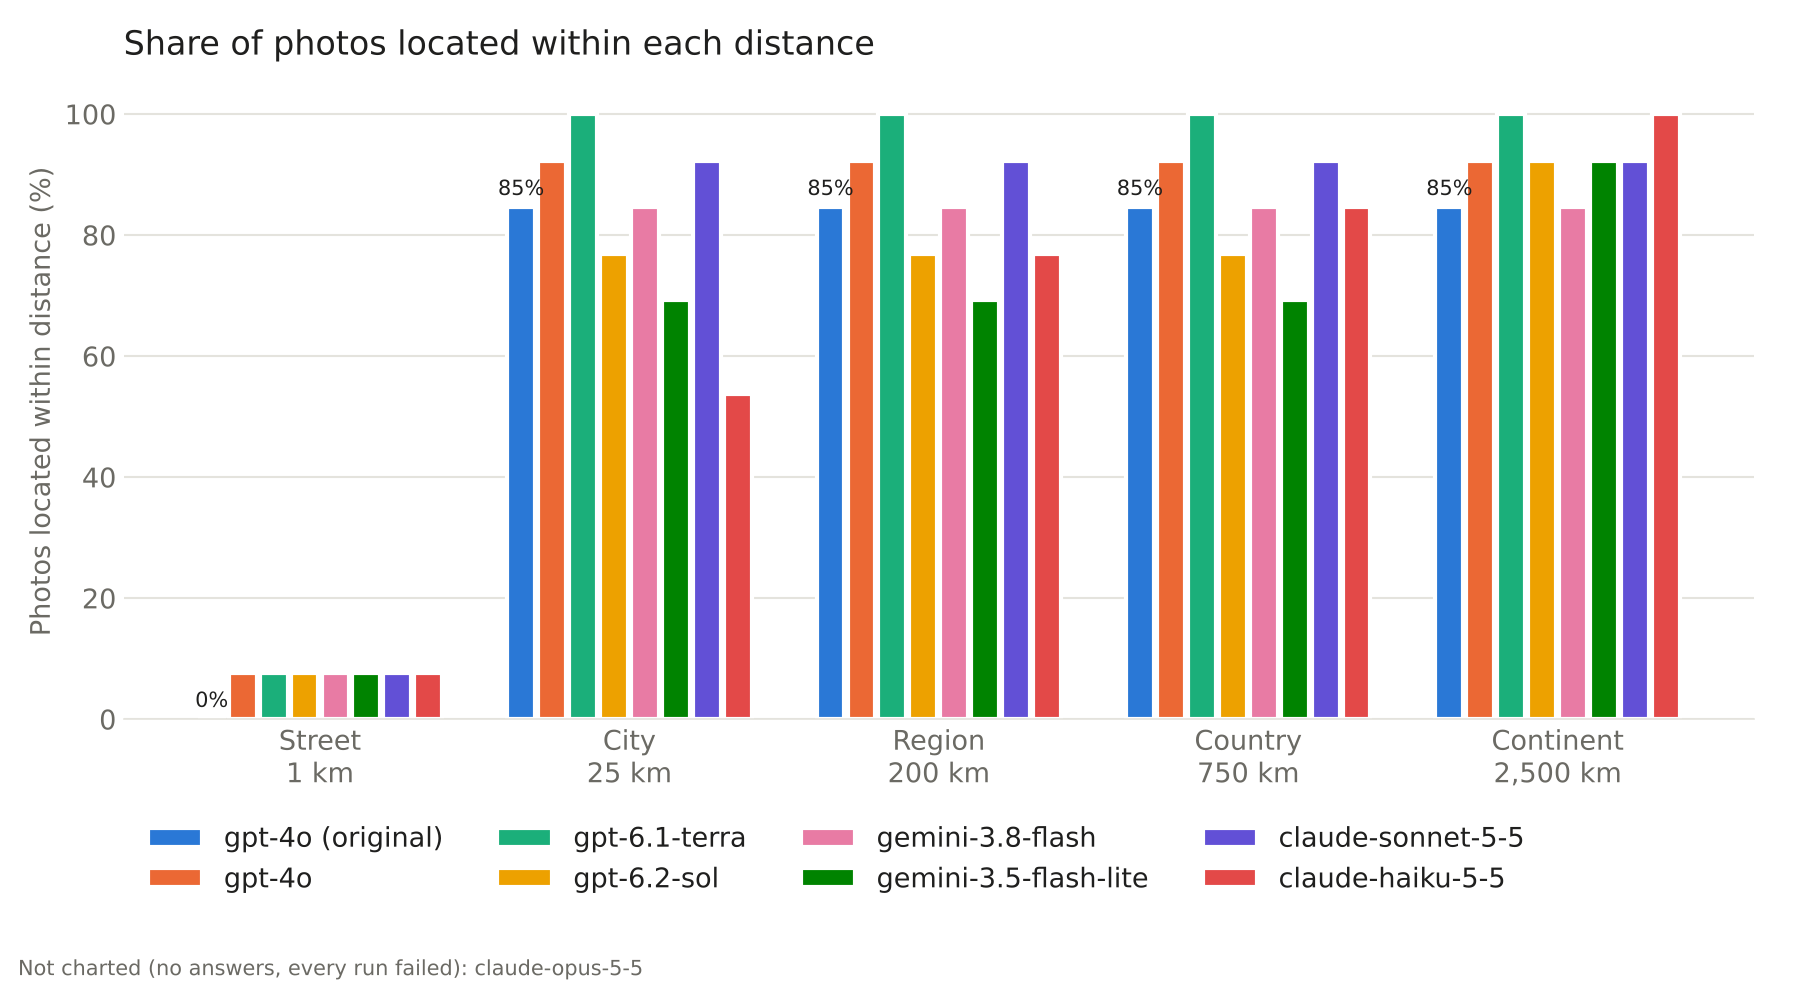
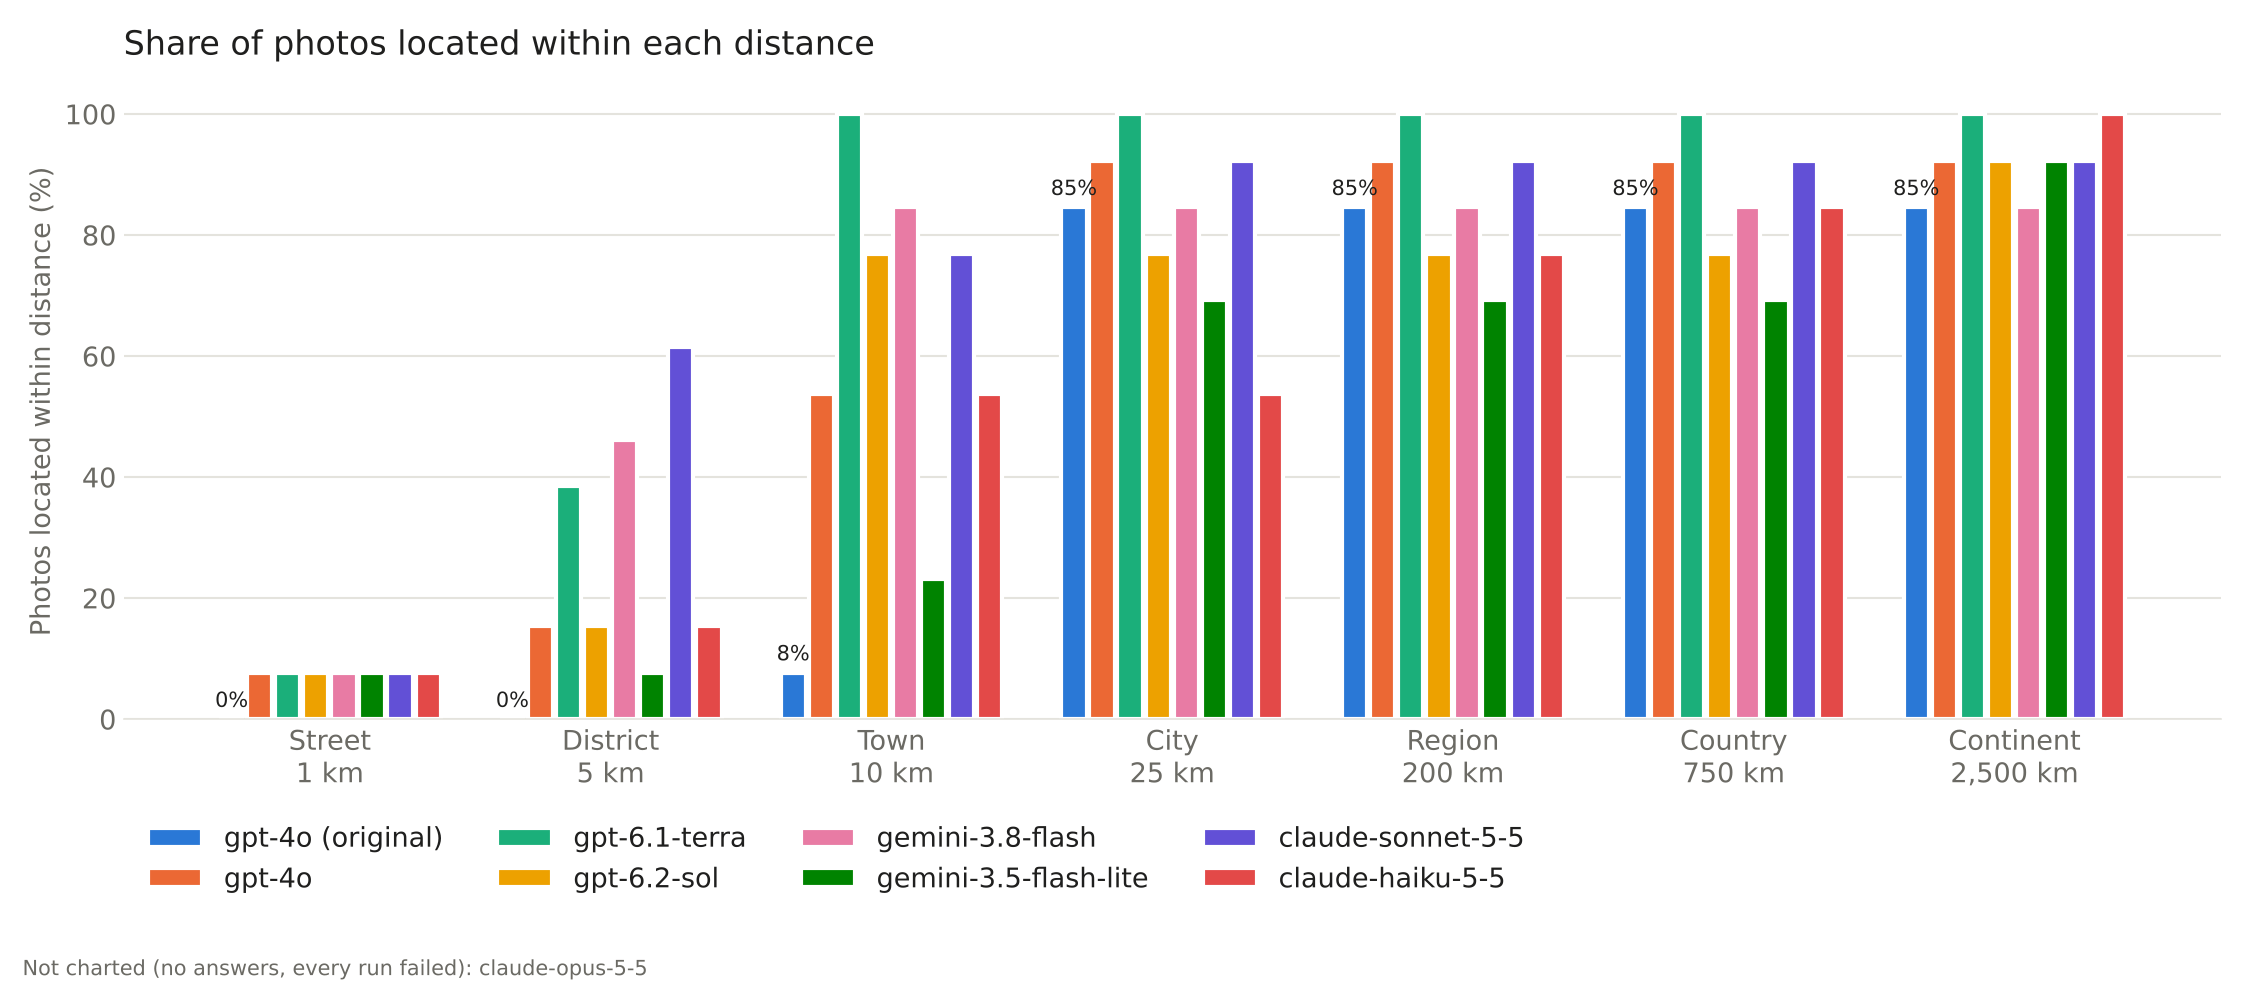
Benchmark: add 5 km and 10 km accuracy bands
With every photo in one suburb, the 25 km band cannot tell the right town
from the nearest big city (Bellevue vs Seattle is 10-15 km), so a model
that always answers "Seattle" scores as well as one that finds the spot.
Add District (5 km) and Town (10 km) to the summary, chart and printed
table, and regenerate benchmark-results/ and results-claude/.

Claude-Session: https://claude.ai/code/session_01QYVsSHisQA6ypfrNR5WgUo

diff --git a/eval/benchmark.py b/eval/benchmark.py
@@ -7,7 +7,8 @@ run resumes where it stopped.
 
 The headline metric is the standard one in photo-geolocation research: the
 share of photos placed within 1 km (street), 25 km (city), 200 km (region),
-750 km (country) and 2,500 km (continent) of the truth.
+750 km (country) and 2,500 km (continent) of the truth, plus 5 km (district)
+and 10 km (town), which tell a neighbouring city apart from the right one.
 
 Manifest (CSV, one row per photo):
     file,latitude,longitude,country,place,category
@@ -49,8 +50,10 @@ CODE_DIR = Path(os.getenv("BENCH_CODE_DIR") or ROOT).resolve()
 if str(CODE_DIR) not in sys.path:
     sys.path.insert(0, str(CODE_DIR))
 
-THRESHOLDS_KM = (1, 25, 200, 750, 2500)
-THRESHOLD_LABELS = ("Street\n1 km", "City\n25 km", "Region\n200 km", "Country\n750 km", "Continent\n2,500 km")
+# 5 and 10 km separate "the right town" from "the nearest big city": when every
+# photo comes from one suburb, 25 km cannot tell Bellevue from Seattle.
+THRESHOLDS_KM = (1, 5, 10, 25, 200, 750, 2500)
+THRESHOLD_LABELS = ("Street\n1 km", "District\n5 km", "Town\n10 km", "City\n25 km", "Region\n200 km", "Country\n750 km", "Continent\n2,500 km")
 # An answer counts as "correct" for calibration when within this distance.
 CORRECT_KM = 25
 
@@ -333,7 +336,7 @@ def charts(summary: list[dict[str, Any]], rows: list[dict[str, Any]], out_dir: P
         n = len(group)
 
         # 1. Accuracy at distance thresholds (grouped bars).
-        fig, ax = plt.subplots(figsize=(12, 6.6))
+        fig, ax = plt.subplots(figsize=(15, 6.6))
         _style(ax)
         width = 0.8 / max(n, 1)
         for i, s in enumerate(group):
@@ -453,13 +456,13 @@ def report(out_dir: Path) -> None:
     _write_csv(out_dir / "summary_by_category.csv", by_category(rows))
     charts(summary, rows, out_dir)
 
-    print(f"\n{'model':<22} {'n':>3} {'1km':>5} {'25km':>5} {'200km':>6} {'750km':>6} {'2500km':>7} "
-          f"{'median km':>10} {'conf ok/wrong':>14} {'sec':>5}")
+    pct = lambda v: "-" if v is None else f"{100 * v:.0f}%"
+    head = "".join(f"{str(t) + 'km':>7}" for t in THRESHOLDS_KM)
+    print(f"\n{'model':<22} {'n':>3}{head} {'median km':>10} {'conf ok/wrong':>14} {'sec':>5}")
     for s in summary:
-        pct = lambda v: "-" if v is None else f"{100 * v:.0f}%"
+        accs = "".join(f"{pct(s[f'acc_{t}km']):>7}" for t in THRESHOLDS_KM)
         cw = f"{s['confidence_when_correct'] or 0:.2f}/{s['confidence_when_wrong'] or 0:.2f}"
-        print(f"{s['model']:<22} {s['photos']:>3} {pct(s['acc_1km']):>5} {pct(s['acc_25km']):>5} "
-              f"{pct(s['acc_200km']):>6} {pct(s['acc_750km']):>6} {pct(s['acc_2500km']):>7} "
+        print(f"{s['model']:<22} {s['photos']:>3}{accs} "
               f"{s['median_error_km'] if s['median_error_km'] is not None else '-':>10} {cw:>14} "
               f"{s['median_seconds'] or '-':>5}")
     print(f"\nWrote summaries and charts to {out_dir}")
